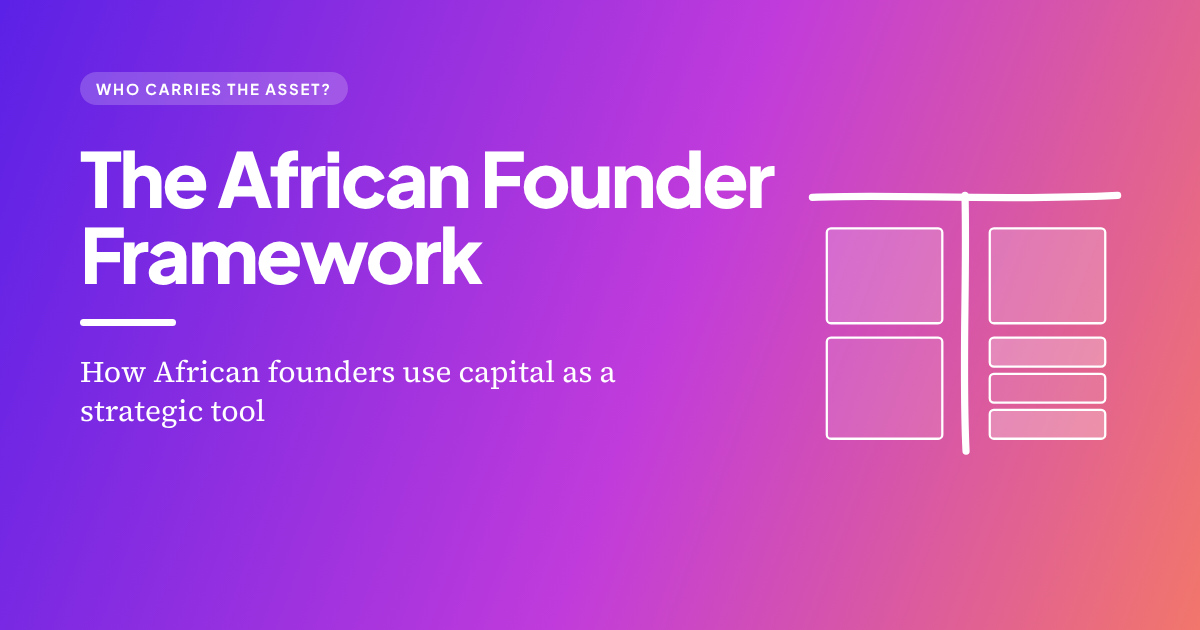
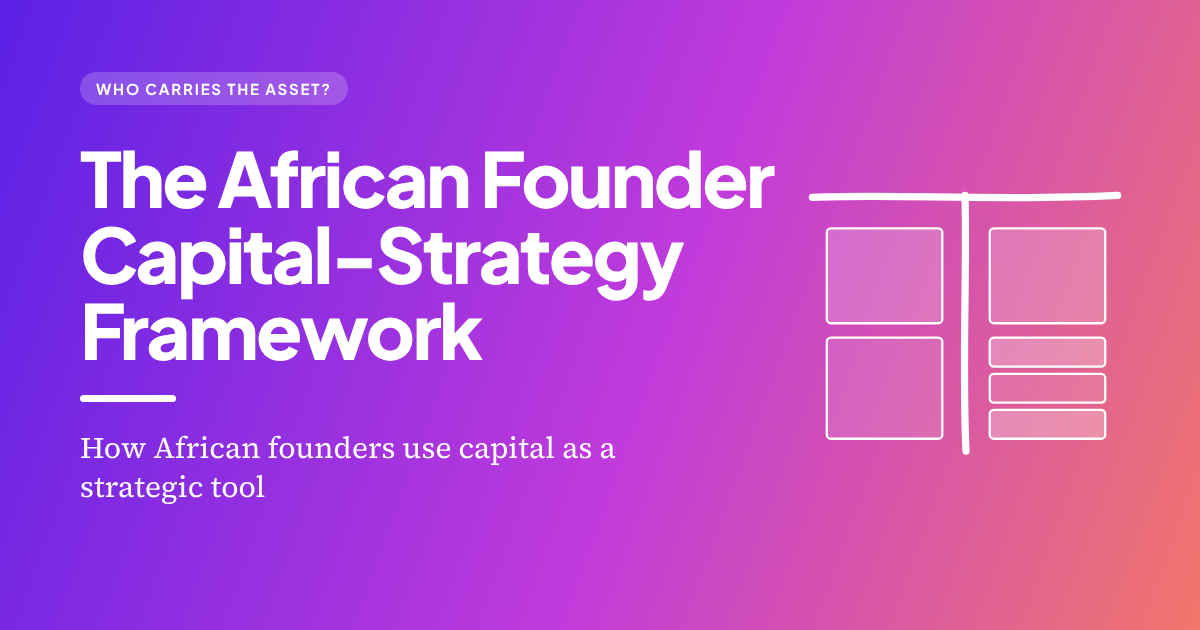
Move site address to vcexplorer.github.io
Claude-Session: https://claude.ai/code/session_01LmdS8TZkwLcZWtzo26gJqb

Changed region(s): [[0.0617, 0.3619, 0.5858, 0.754], [0.0617, 0.754, 0.2158, 0.8143]]

diff --git a/README.md b/README.md
@@ -2,7 +2,7 @@
 
 Interactive website for the Dream VC Investor Accelerator 2026 capstone *Who carries the asset? How African founders use capital as a strategic tool: nine cases, one framework* by Princess Oti, Abdullahi Lawal and Nate Cheruiyot.
 
-Live site: https://cheruiyotnate.github.io/who-carries-the-asset/
+Live site: https://vcexplorer.github.io/who-carries-the-asset/
 
 The 58-page PDF in `public/report/` is the single source of truth. Every number on the site must match it exactly and carry its source citation.
 
